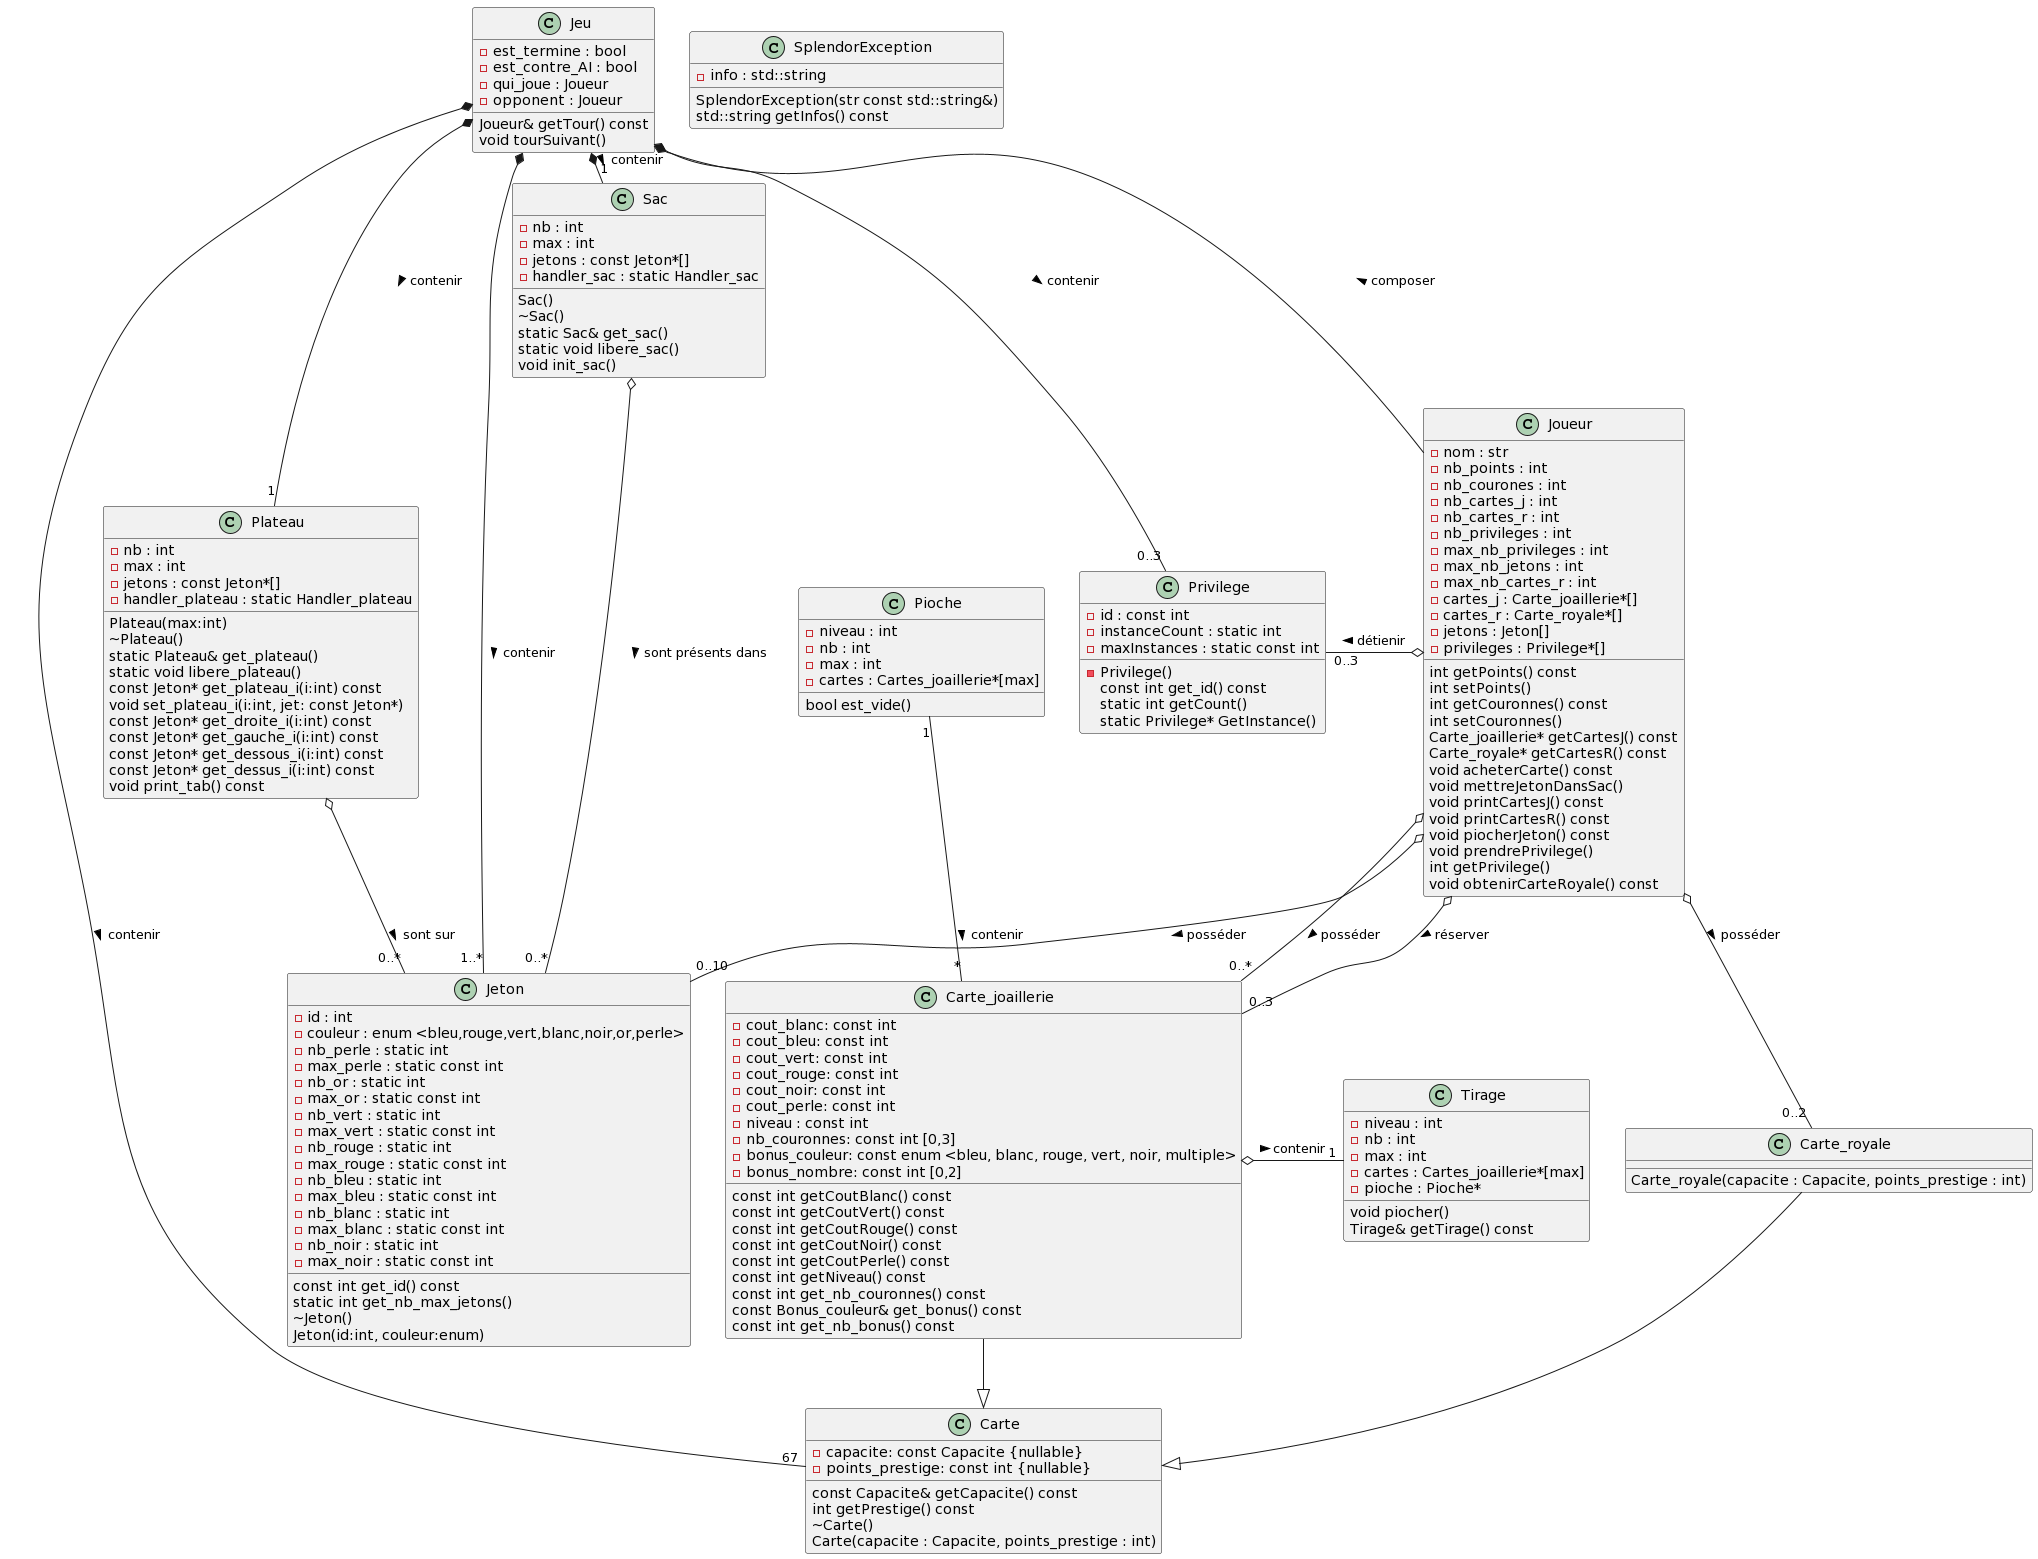
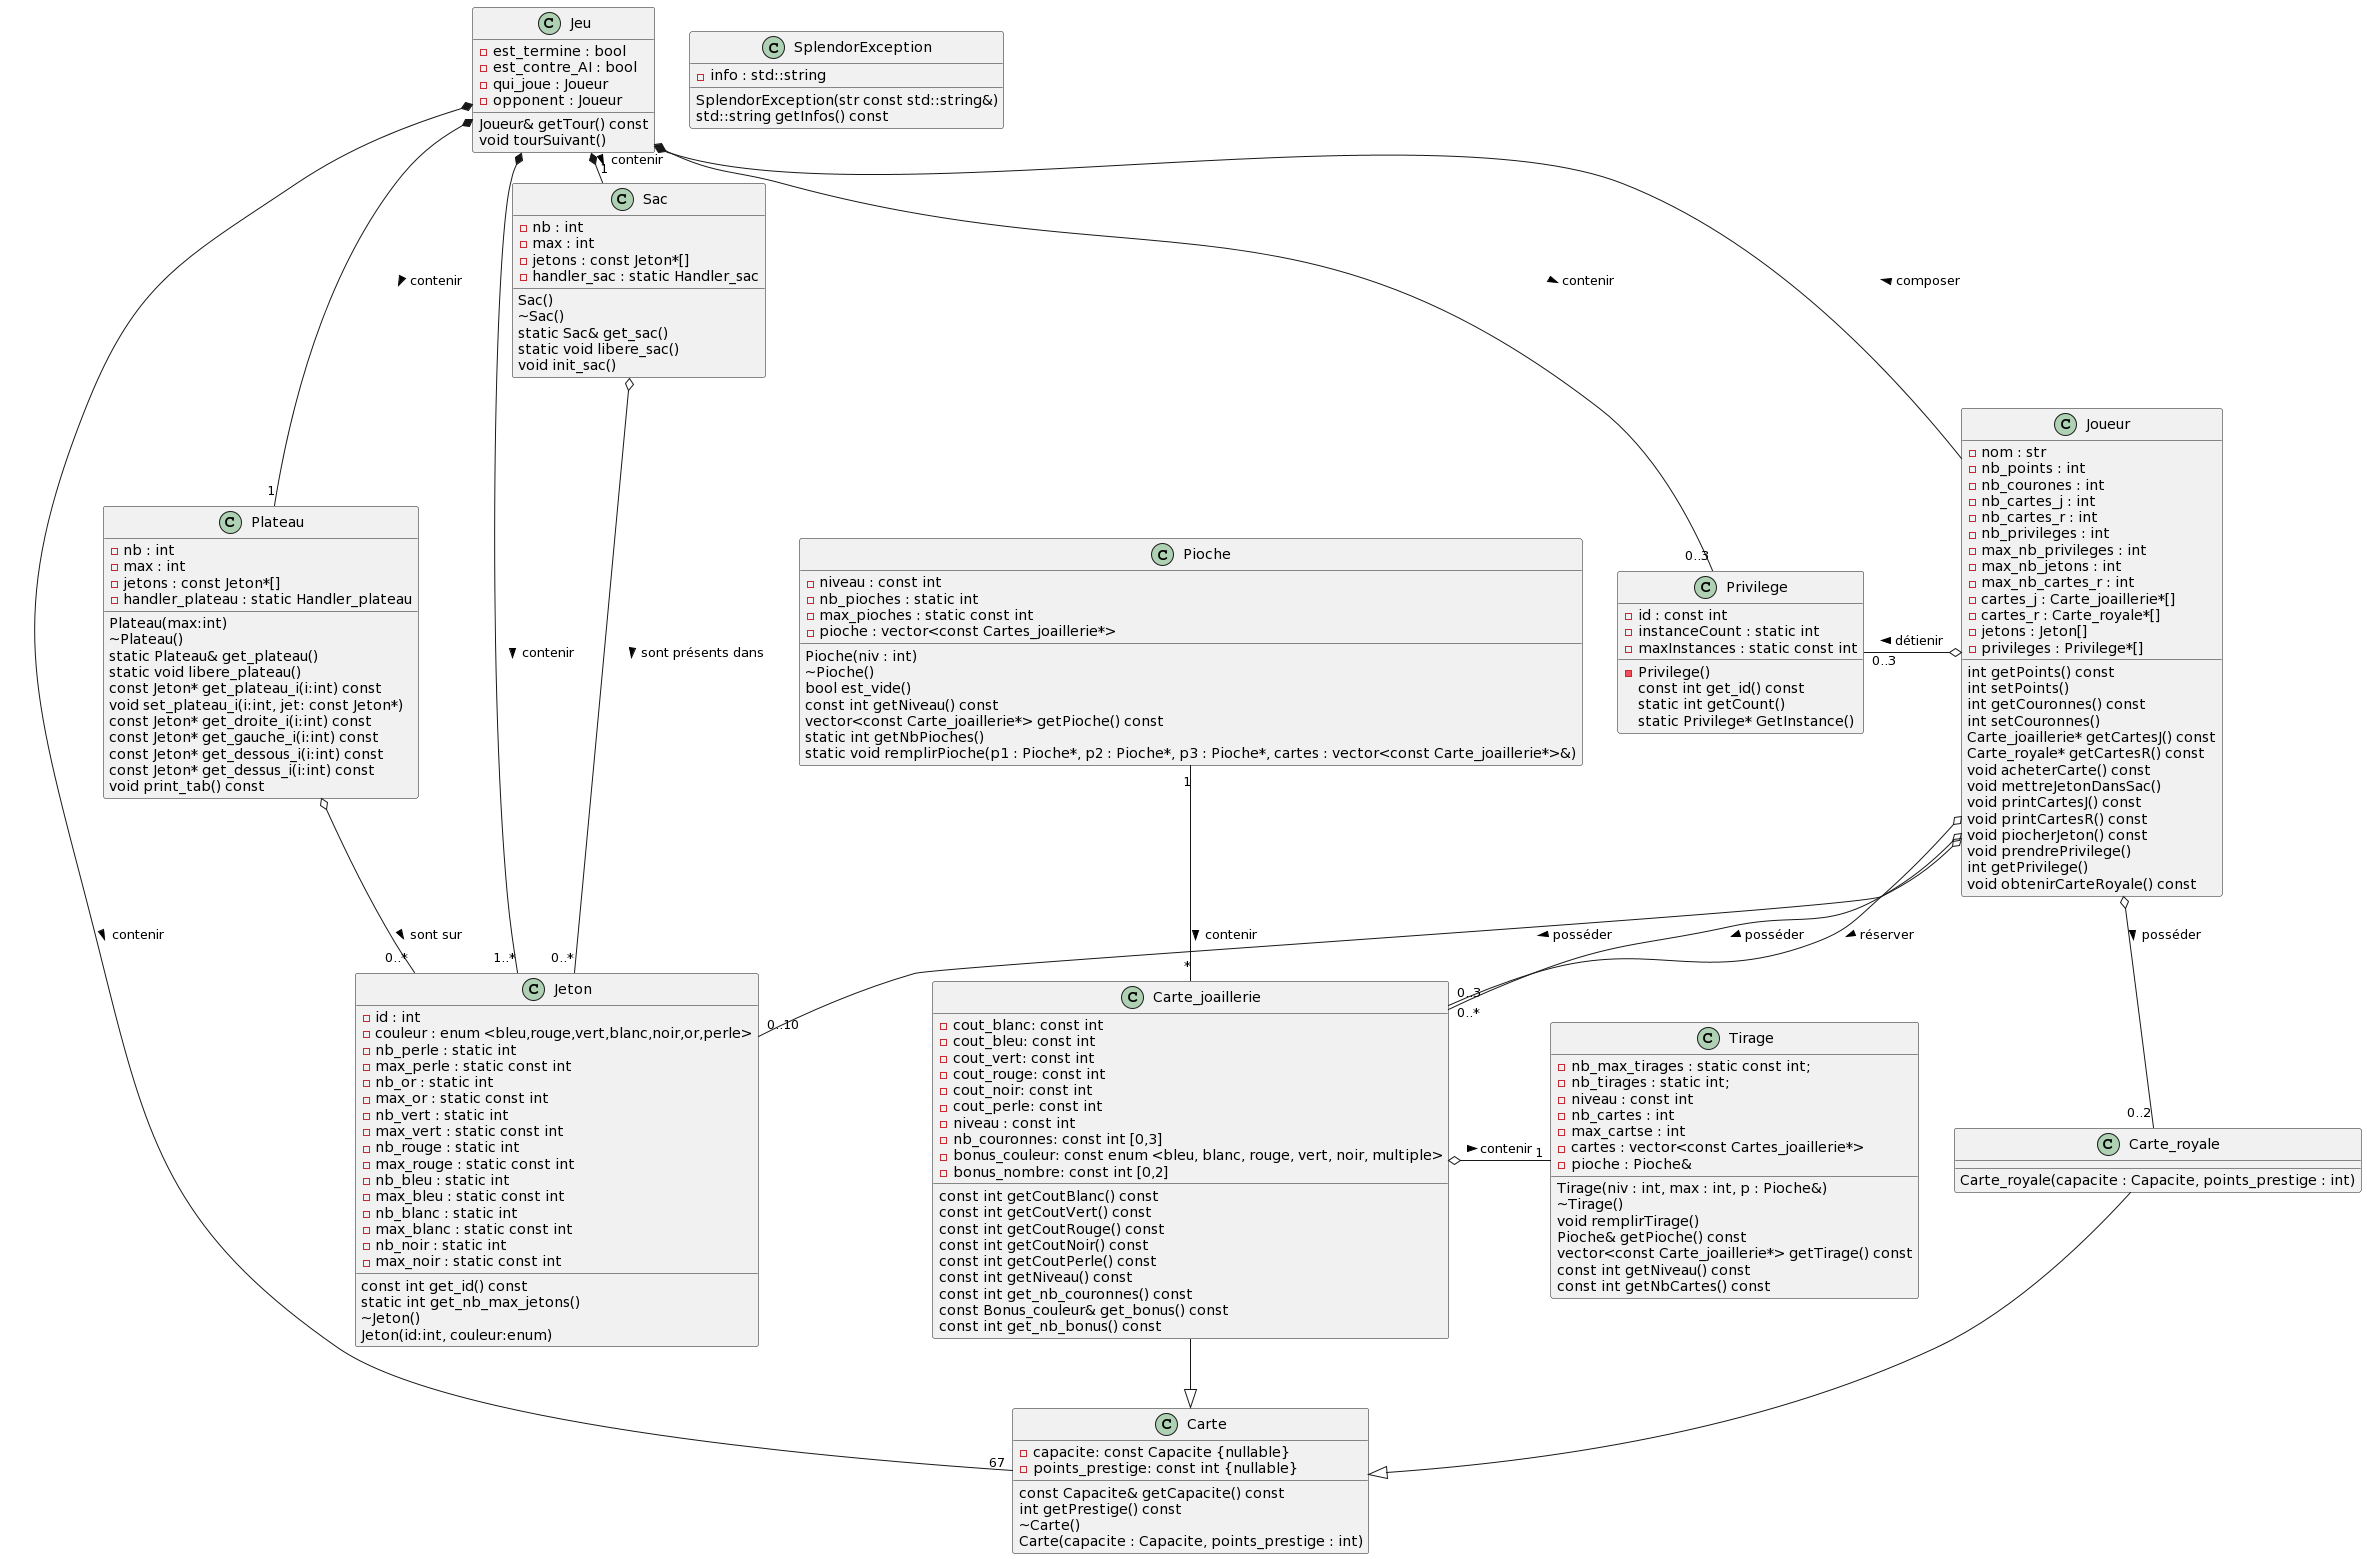
Tirage V2

diff --git a/classes/tirage.h b/classes/tirage.h
@@ -1,8 +1,8 @@
-#ifndef LO21_SPLENDOR_DUEL_PIOCHE_TIRAGE_H
-#define LO21_SPLENDOR_DUEL_PIOCHE_TIRAGE_H
+#ifndef LO21_SPLENDOR_DUEL_TIRAGE_H
+#define LO21_SPLENDOR_DUEL_TIRAGE_H
 #include <iostream>
 #include <vector>
-#include <nlohmann-json>
+#include <cstring>
 #include "carte.h"
 #include "pioche.h"
 #include "Exception.h"
@@ -11,40 +11,40 @@ using namespace std;
 class Tirage{
     static const int nb_max_tirages = 3;
     static int nb_tirages;
-    Pioche* pioche;
+    Pioche& pioche;
     const int niveau;
     int nb_cartes;
     const int max_cartes;
     vector<const Carte_joaillerie*> cartes;
 public:
-    Tirage(int niv, int max, Pioche* p) : niveau(niv), max_cartes(max){
-        if (p->getNiveau() != niv) {
+    Tirage(int niv, int max, Pioche& p) : niveau(niv), max_cartes(max), pioche(p){
+        if (p.getNiveau() != niveau) {
             throw SplendorException("La pioche n'est pas du même niveau que le tirage !");
         }
         else if (nb_tirages == nb_max_tirages) {
             throw SplendorException("Nombre maximum de tirages dépassé !");
         }
         nb_cartes = 0;
-        pioche = p;
         nb_tirages++;
     }
-    ~Tirage();
+    ~Tirage() { nb_tirages--; }
     Tirage& operator=(const Tirage& t)=delete;
     Tirage(const Tirage& t)=delete;
 
-
-    Pioche* getPioche() { return pioche; }
-    vector<const Carte_joaillerie*> getTirage() { return cartes; }
+    const int getNiveau() const { return niveau; }
+    const int getNbCartes() const { return nb_cartes; }
+    Pioche& getPioche() const { return pioche; }
+    vector<const Carte_joaillerie*> getTirage() const { return cartes; }
     void remplirTirage();
 };
 
 inline std::ostream& operator<<(std::ostream& f, Tirage& t) {
-    for(int i = 0; i < t.nb ; i++) {
-        f<<t.getTirage()[i] ;
+    for(const Carte_joaillerie* c : t.getTirage()) {
+        f << "\nniveau : " << c->getNiveau() << "\nprestige : " << c->getPrestige() << "\nnb couronnes : " << c->get_nb_couronnes() << "\nnb bonus : " << c->get_nb_bonus() << "\ncapacite : " << c->getCapacite() << "\ncout blanc : " << c->getCoutBlanc() << "\ncout bleu : " << c->getCoutBleu() << "\ncout noir : " << c->getCoutNoir() << "\ncout perle " << c->getCoutPerle() << "\ncout rouge : " << c->getCoutRouge() << "\ncout vert : " << c->getCoutVert() << "\n";
     }
     return f;
 }
 
-void testTirage()
+void testTirage();
 
-#endif //LO21_SPLENDOR_DUEL_PIOCHE_TIRAGE_H
+#endif //LO21_SPLENDOR_DUEL_TIRAGE_H

diff --git a/classes/tirage.cpp b/classes/tirage.cpp
@@ -3,14 +3,28 @@
 int Tirage::nb_tirages = 0;
 
 void Tirage::remplirTirage() {
-    while(nb_cartes < max_cartes && !pioche->est_vide()) {
-            pioche-> [0].push_pack();
+    vector<const Carte_joaillerie*> p = pioche.getPioche();
+    while(nb_cartes < max_cartes && !pioche.est_vide()) {
+        const Carte_joaillerie* c = p.front();
+        cartes.push_back(c);
+        nb_cartes++;
+        p.erase(p.begin());
+    }
+    if(pioche.est_vide()) {
+        throw SplendorException("La pioche est vide !");
+    }
+    else if(nb_cartes > max_cartes) {
+        throw SplendorException("Trop de cartes dans le tirage !");
     }
 }
 
 void testTirage() {
-    Pioche *p1 = new Pioche(1);
-    Tirage *t1 = new Tirage(1, 5, p1);
-    t1->remplirTirage();
-    std::cout<<*t1<<endl;
+    Pioche p1 = Pioche(1);
+    Pioche p2 = Pioche(2);
+    Pioche p3 = Pioche(3);
+    vector<const Carte_joaillerie*> liste_cartes = initCartesJoaillerie();
+    p1.remplirPioche(&p1, &p2, &p3, liste_cartes);
+    Tirage t1 = Tirage(1, 5, p1);
+    t1.remplirTirage();
+    std::cout<<t1<<endl;
 }

diff --git a/classes/pioche.h b/classes/pioche.h
@@ -4,11 +4,37 @@
 #include "carte.h"
 using namespace std;
 
+
 class Pioche{
-    int niveau;
-    int nb;
-    int max;
-    Carte_joaillerie ** cartes; // vérifier si on peut pas mettre déjà une taille
+private:
+    static const int max_pioches = 3;
+    static int nb_pioches;
+    const int niveau;
+    Pioche& operator=(Pioche& p) = delete;
+    vector<const Carte_joaillerie*> pioche;
+
+
 public:
-    bool est_vide(){return nb==0;}
+    ~Pioche(){nb_pioches --;}
+
+    Pioche(int niv) : niveau(niv){
+        if (nb_pioches > max_pioches){
+            throw SplendorException("Maximum de pioches atteint");
+        }
+        nb_pioches++;
+    }
+
+    bool est_vide(){
+        return pioche.empty();
+    }
+
+    const int getNiveau() const { return niveau; }
+
+    vector<const Carte_joaillerie*> getPioche() const {return pioche;}
+
+    static int getNbPioches() {return nb_pioches;}
+
+    static void remplirPioche(Pioche* p1, Pioche* p2, Pioche* p3, vector<const Carte_joaillerie*>& cartes);
 };
+
+#endif //LO21_SPLENDOR_DUEL_PIOCHE_H

diff --git a/main.cpp b/main.cpp
@@ -1,13 +1,10 @@
 #include "main.h"
-#include "classes/plateau.h"
-#include "classes/jetons.h"
-#include "classes/sac.h"
 #include "classes/tirage.h"
 
 int main(){
 
     try{
-        test_unitaires();
+        testTirage();
 
     }catch(SplendorException& e){
         cout<< e.getInfos()<<endl;
@@ -15,19 +12,4 @@ int main(){
 
 
     return 0;
-}
-
-
-void test_unitaires(){
-    try {
-        Privilege* instance1 = Privilege::GetInstance();
-        Privilege* instance2 = Privilege::GetInstance();
-        Privilege* instance3 = Privilege::GetInstance();
-        Privilege* instance4 = Privilege::GetInstance(); //Lève une exception car la limite est atteinte
-        std::cout<<"id de la premiere instance : "<<instance1->get_id()<<"\n";
-        std::cout<<"id de la seconde instance : "<<instance2->get_id()<<"\n";
-        std::cout<<"id de la troisieme instance : "<<instance3->get_id()<<"\n";
-    } catch (const SplendorException& e) {
-        std::cerr << "Exception: " <<e.getInfos()<< std::endl;
-    }
 }

diff --git a/classes/pioche.cpp b/classes/pioche.cpp
@@ -1,3 +1,24 @@
+#include "pioche.h"
+
+int Pioche::nb_pioches = 0;
+
+void Pioche::remplirPioche(Pioche* p1, Pioche* p2, Pioche* p3, vector<const Carte_joaillerie*>& cartes){
+    if (nb_pioches != max_pioches){throw SplendorException("les pioches ne sont pas toutes créées");}
+
+    for (const Carte_joaillerie* carte : cartes) { //pour chaque carte (ptr constant vers une carte) du vecteur cartes
+        switch(carte->getNiveau()){
+            case 1:
+                (p1->pioche).push_back(carte);
+                break;
+            case 2:
+                (p2->pioche).push_back(carte);
+                break;
+            case 3:
+                (p3->pioche).push_back(carte);
+                break;
+        }
+    }
+}
 
 
 

diff --git a/main.h b/main.h
@@ -2,8 +2,6 @@
 #define LO21_SPLENDOR_DUEL_MAIN_H
 #include <iostream>
 #include "classes/carte.h"
-#include "classes/privilege.h"
 #include "classes/Exception.h"
-void test_unitaires();
 
 #endif //LO21_SPLENDOR_DUEL_MAIN_H
